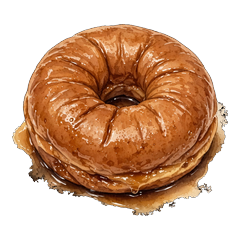
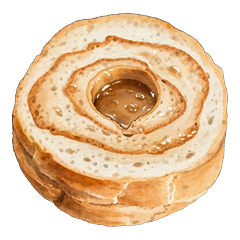
おでん：車麩の絵をMUSEの作り直し版に差し替え
Claude-Session: https://claude.ai/code/session_01F2h1wwexNhbWiPtHXpLWUy

diff --git a/hyakumangoku.html b/hyakumangoku.html
@@ -411,7 +411,7 @@ body.ipon{overflow:hidden}
 .ktPal{display:flex;gap:4px;margin-top:6px}.ktP{flex:1;color:#fff;font-weight:900;padding:10px 0;border:3px solid transparent;text-shadow:0 1px 2px #000}.ktP.on{border-color:#fff}
 .hyW{display:flex;gap:8px;margin-top:10px}.hyB{flex:1;min-height:110px;font-size:20px;font-weight:900;border:3px solid var(--c);background:#221a12;color:#f6f0e0;border-radius:14px;transition:background .1s}.hyB.lit{background:var(--c);color:#fff}
 /* ミニゲームの絵 */
-.ysSrc,.ysDst{width:36px;height:36px;object-fit:contain}.ysG{background:#5a4a30 url(hyakumangoku_img/mg/ys_tile_bg.webp?v=1118) center/96px}.ysT{background:transparent!important;overflow:hidden}.ysT img{width:100%;height:100%;display:block;transition:transform .12s}
+.ysSrc,.ysDst{width:36px;height:36px;object-fit:contain}.ysG{background:#5a4a30 url(hyakumangoku_img/mg/ys_tile_bg.webp?v=1118b) center/96px}.ysT{background:transparent!important;overflow:hidden}.ysT img{width:100%;height:100%;display:block;transition:transform .12s}
 .kkS{background-size:100% 100%!important;background-color:#8f8472}.kkMk{color:#1e1710;opacity:.72;text-shadow:0 1px 0 rgba(255,255,255,.35)}
 .hkStage{background-color:#2a2016;background-position:center;background-size:220px 220px;background-repeat:no-repeat}.hkFoil{background-size:100% 100%!important;background-color:transparent;opacity:.95}
 .odShop{display:flex;align-items:center;gap:8px}.odKyaku{width:72px;height:72px;object-fit:contain;flex:none}.odCus{flex:1}
@@ -3446,7 +3446,7 @@ function kzDeal5(){let d=[];try{d=JSON.parse(localStorage.getItem("hgKz")||"[]")
 
 function mnFin(sc,goal){const m=MG;if(!m||m.ended)return;m.ended=1;mgEnd(Math.max(0,sc)/goal)}
 // ミニゲームの絵（MUSE作 2026-11-18）
-const MGP=n=>"hyakumangoku_img/mg/"+n+".webp?v=1118",MGIC={};
+const MGP=n=>"hyakumangoku_img/mg/"+n+".webp?v=1118b",MGIC={};
 function mgI(n){let i=MGIC[n];if(!i){i=new Image();i.src=MGP(n);MGIC[n]=i}return i}
 const mgOk=i=>i&&i.complete&&i.naturalWidth>0;
 /* ===================== ホームのミニゲーム（2週間で14種類） 新しい10種類 ===================== */
